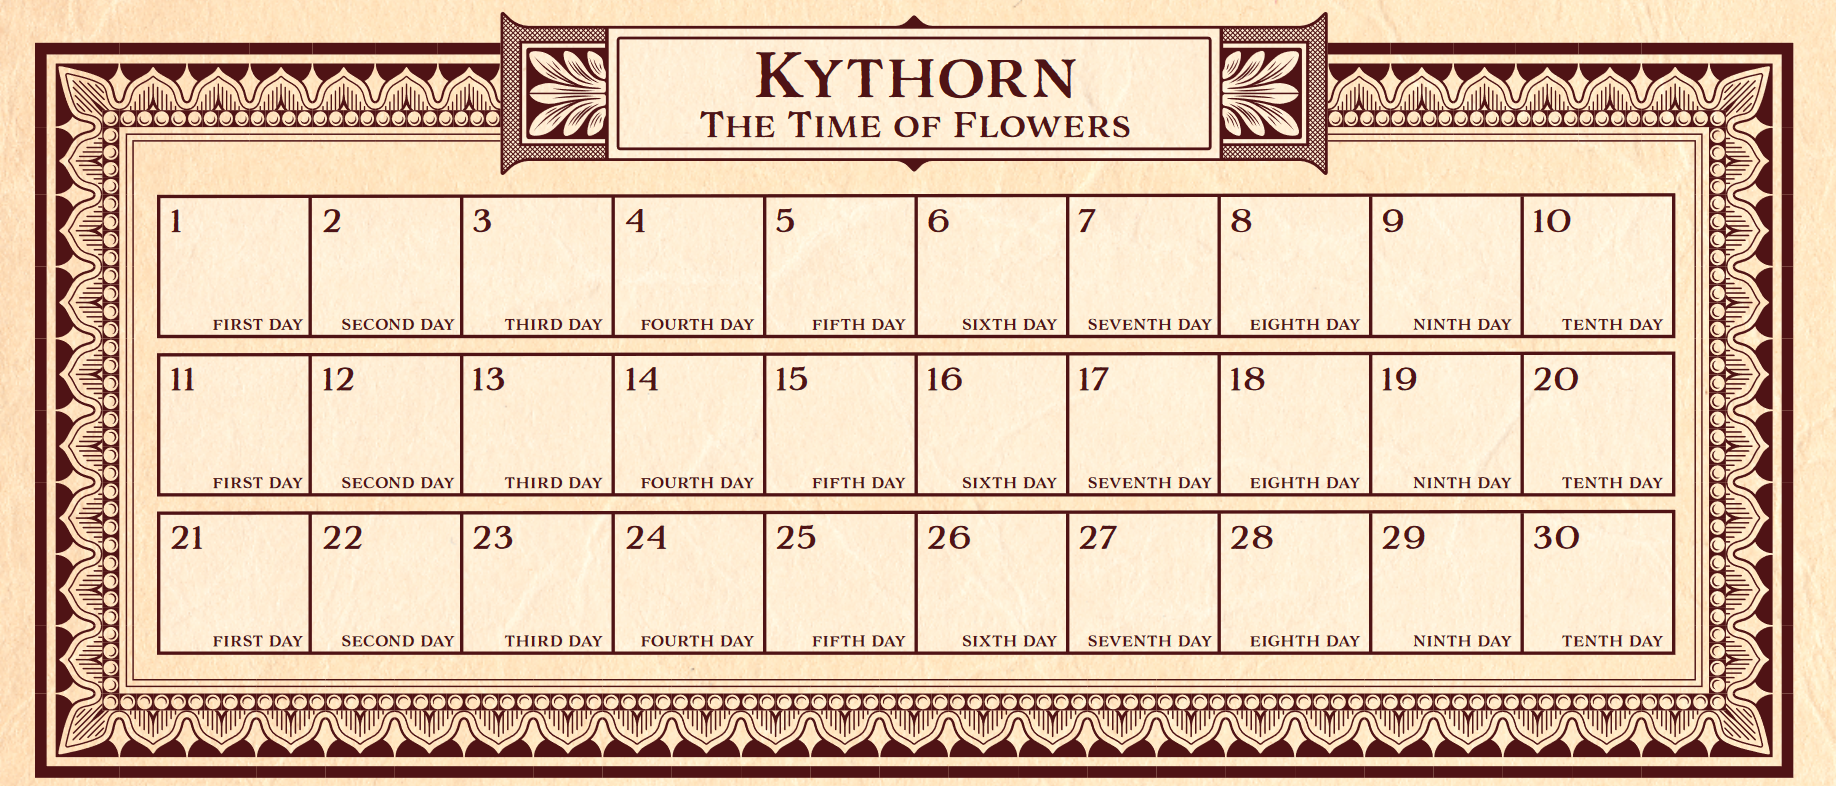
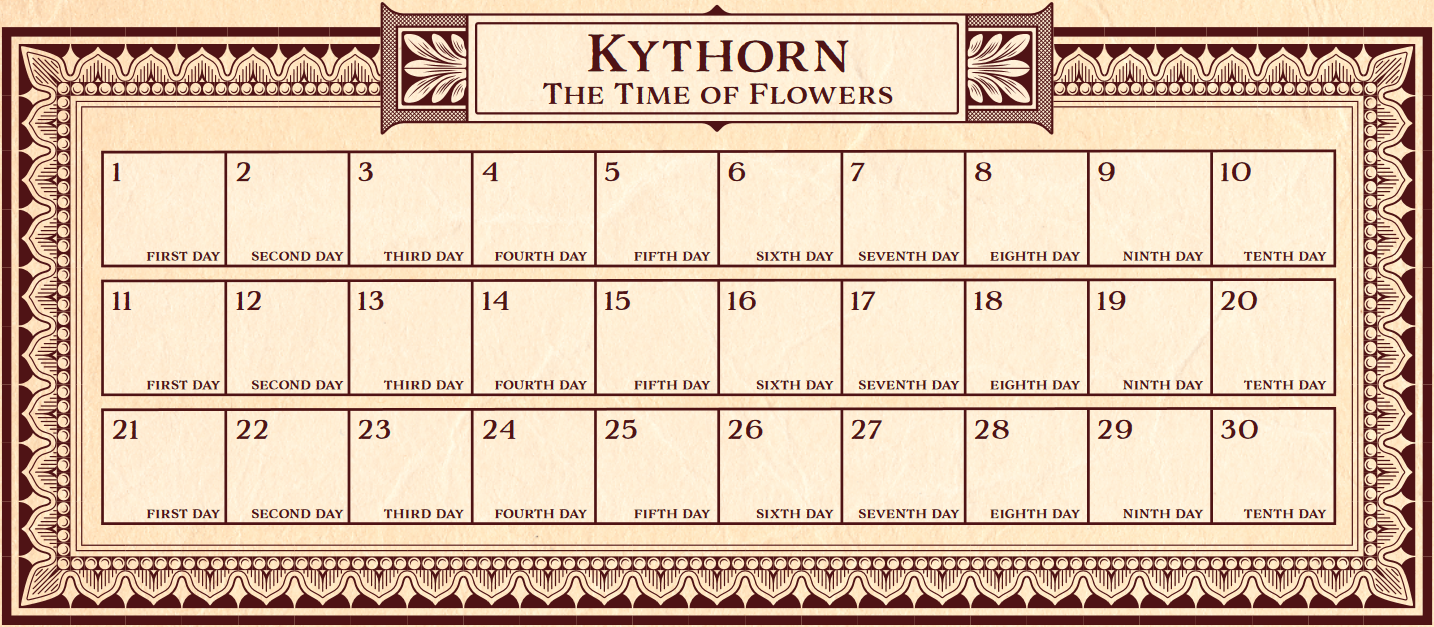
Updated GM notes and Calendar

diff --git a/static/css/calendar.css b/static/css/calendar.css
@@ -16,6 +16,6 @@
     padding-top: 10px;
     padding-left: 5px;
     box-sizing: border-box;
-    width: 116px;
-    height: 108px;
+    width: 120.25px;
+    height: 112px;
 }

diff --git a/src/dragon_heist/calendar_builder.py b/src/dragon_heist/calendar_builder.py
@@ -1,6 +1,6 @@
 class CalendarBuilder:
 
-    def __init__(self, top_start, left_start, day_width=115.5, day_height=120):
+    def __init__(self, top_start=148, left_start=100, day_width=120.3, day_height=125.1):
         self.top_start = top_start
         self.left_start = left_start
         self.day_width = day_width

diff --git a/data/dragon_heist/gm-notes.md b/data/dragon_heist/gm-notes.md
@@ -1,4 +1,3 @@
-* [Da party](^/static/img/dnd_party.png)
 * [Waterdeep Interactive Map](https://www.aidedd.org/atlas/index.php?map=W&l=1)
 * [Calendar](/dragon_heist/calendar)
 * [Trollskull Alley NPC ideas](https://thealexandrian.net/wordpress/43319/roleplaying-games/a-night-in-trollskull-manor-part-5-patrons)
@@ -10,7 +9,9 @@
 
 ## Images
 
+* [Da party](^/static/img/dnd_party.png)
 * [Fireball Header image](^https://vignette.wikia.nocookie.net/kingsway-role-playing-group/images/f/f0/ChapterThree.jpg/revision/latest?cb=20190122021356)
+* [Day of Wonders Parade](^https://media-waterdeep.cursecdn.com/attachments/4/346/9012.png)
 
 ## Places
 
@@ -24,6 +25,9 @@
 * Trollskull Manor [1](^https://www.seekpng.com/png/detail/41-413278_four-stories-tall-and-boasting-balconies-a-turret.png), [2](^https://vignette.wikia.nocookie.net/kingsway-role-playing-group/images/d/de/Rkwbhhl78l021.jpg/revision/latest?cb=20181219225432), [3](^https://i.imgur.com/8PCaZrv.png)
 * [Trollskull Alley](^https://i.redd.it/7k86kx3ouhb31.png)
 * [Another tavern](^https://i.warosu.org/data/tg/img/0403/75/1433386038458.jpg)
+* [House of Inspired Hands](^https://i.pinimg.com/originals/69/ab/e4/69abe43eff93f1c08cd27dee57b6ed27.jpg)
+* [Sea Maiden's Faire](^https://4.bp.blogspot.com/-_aamJy0qS6U/XMIljDWMINI/AAAAAAAAPOU/1xTC5H03M84HxvqnbFb6W-zmYM8ApiNAgCLcBGAs/s1600/Eyecatcher.jpg)
+* [Gralhund Villa](^https://vignette.wikia.nocookie.net/kingsway-role-playing-group/images/5/5a/16219d9be2b432f31eb9a5a443ac91a5.jpg/revision/latest?cb=20190208223042)
 
 ## Items
 
@@ -111,7 +115,8 @@
 
 ## Misc NPCs
 
-* [City Watch](^https://s3.amazonaws.com/files.d20.io/images/59642840/MOW_In1u400HmhFBql5pdw/max.png?1533246068)
+* City Watch [1](^https://s3.amazonaws.com/files.d20.io/images/59642840/MOW_In1u400HmhFBql5pdw/max.png?1533246068), [2](^)
+* [Griffon Cavalry Rider](^https://i.pinimg.com/originals/48/67/ff/4867ff5e23fc069bcd216b8fc48a92cb.jpg)
 * [Dalakhar](^https://i.pinimg.com/originals/35/26/64/3526642d8248ad6e7111f75cdd5d732f.png), rock gnome thief with Stone of Golorr
 * [Saeth Cromley and Barnibus Blastwind](^https://campaignwiki.org/wiki/Waterdeep/download/watch), City Watch sergeant and mage detective
 * [Valetta](^https://media-waterdeep.cursecdn.com/attachments/thumbnails/4/403/300/390/c1022.png), priestess of Gond
